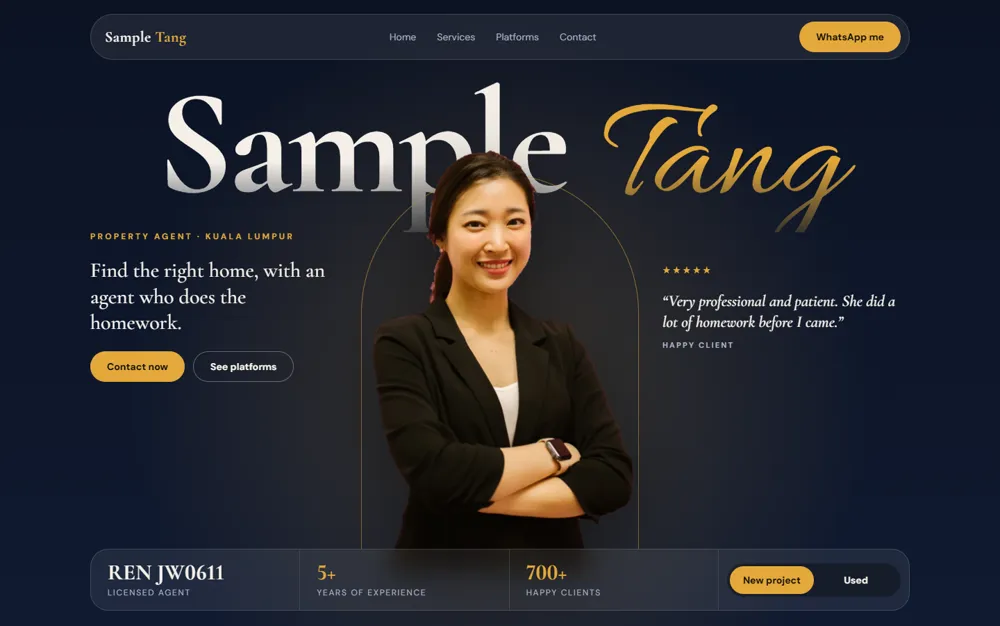
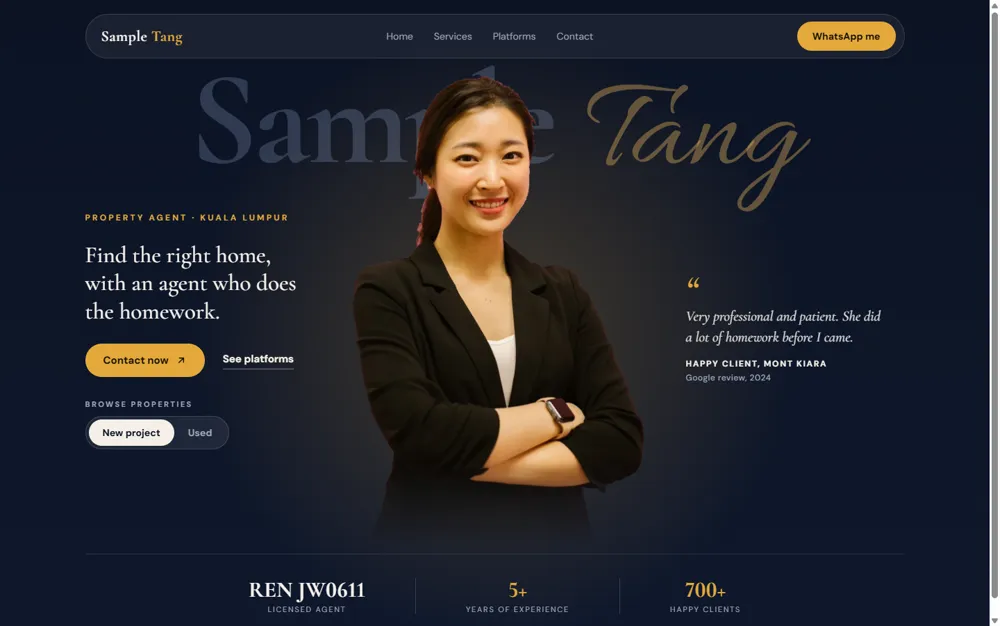
sample2: calmer portrait-led Sample Tang, gallery thumbnail refreshed

diff --git a/public/sample2/index.html b/public/sample2/index.html
@@ -8,96 +8,108 @@
 <link rel="preconnect" href="https://fonts.googleapis.com"><link rel="preconnect" href="https://fonts.gstatic.com" crossorigin>
 <link href="https://fonts.googleapis.com/css2?family=Allura&family=Cormorant+Garamond:ital,wght@0,500;0,600;0,700;1,500;1,600&family=DM+Sans:wght@400;500;700&display=swap" rel="stylesheet">
 <style>
-:root{--ink:#0c1324;--ink2:#141d33;--gold:#e3a83a;--cream:#f4efe8;--mute:#aab2c6;--serif:"Cormorant Garamond",Georgia,serif;--sans:"DM Sans",system-ui,sans-serif}
+:root{--ink:#0c1324;--gold:#e3a83a;--cream:#f4efe8;--mute:#9aa3b8;--serif:"Cormorant Garamond",Georgia,serif;--sans:"DM Sans",system-ui,sans-serif}
 *{box-sizing:border-box;margin:0;padding:0}
 html{background:var(--ink)}
 body{font-family:var(--sans);color:var(--cream);background:var(--ink);-webkit-font-smoothing:antialiased;overflow-x:hidden}
 a{color:inherit;text-decoration:none}
 .hero{position:relative;min-height:100svh;display:grid;grid-template-rows:auto 1fr auto;overflow:hidden;isolation:isolate;
-  background:radial-gradient(60vw 60vw at 50% 62%,rgba(227,168,58,.22),transparent 62%),linear-gradient(180deg,#0c1324 0%,#101a30 100%)}
+  background:radial-gradient(46vw 46vw at 50% 52%,rgba(227,168,58,.26),transparent 66%),linear-gradient(180deg,#0c1324 0%,#0f182c 100%)}
+.wrap{width:min(1180px,calc(100% - 32px));margin:0 auto}
 /* nav */
-.nav{display:flex;align-items:center;justify-content:space-between;gap:16px;width:min(1180px,calc(100% - 32px));margin:20px auto 0;padding:10px 12px 10px 20px;border-radius:999px;background:rgba(255,255,255,.07);border:1px solid rgba(255,255,255,.14);backdrop-filter:blur(14px);-webkit-backdrop-filter:blur(14px);position:relative;z-index:5}
+.nav{display:flex;align-items:center;justify-content:space-between;gap:16px;margin-top:20px;padding:10px 12px 10px 22px;border-radius:999px;background:rgba(255,255,255,.06);border:1px solid rgba(255,255,255,.12);backdrop-filter:blur(14px);-webkit-backdrop-filter:blur(14px);position:relative;z-index:5}
 .logo{font:700 22px var(--serif);letter-spacing:.02em}
 .logo i{font-style:normal;color:var(--gold)}
 .nav ul{display:flex;gap:30px;list-style:none;font-size:14px;color:var(--mute)}
 .nav ul a:hover{color:#fff}
-.btn{display:inline-flex;align-items:center;justify-content:center;gap:8px;min-height:44px;padding:0 24px;border-radius:999px;font-weight:700;font-size:14px;background:var(--gold);color:#1a1405;transition:transform .2s}
-.btn:hover{transform:translateY(-2px)}
-.btn:focus-visible{outline:3px solid #fff;outline-offset:3px}
-.btn--ghost{background:transparent;color:var(--cream);border:1px solid rgba(255,255,255,.32)}
-/* stage */
-.stage{position:relative;width:min(1180px,calc(100% - 32px));margin:0 auto -78px;display:grid;grid-template-columns:1fr minmax(300px,420px) 1fr;align-items:end}
-.title{position:absolute;left:0;right:0;top:3%;z-index:-1;text-align:center;font:700 clamp(4.5rem,15.5vw,13.5rem)/.9 var(--serif);letter-spacing:-.03em;color:var(--cream);white-space:nowrap;
-  -webkit-mask-image:linear-gradient(180deg,#000 55%,rgba(0,0,0,.18) 100%);mask-image:linear-gradient(180deg,#000 55%,rgba(0,0,0,.18) 100%)}
-.title em{font:400 1.0em/.9 "Allura",cursive;color:var(--gold);letter-spacing:0;margin-left:.04em}
-.arch{position:absolute;left:50%;bottom:40px;width:min(400px,34vw);height:calc(88% - 110px);transform:translateX(-50%);border:1.5px solid rgba(227,168,58,.55);border-bottom:0;border-radius:999px 999px 0 0;z-index:-1}
-.portrait{grid-column:2;position:relative;align-self:end;justify-self:center;height:min(78svh,760px);width:auto;max-width:100%;object-fit:contain;display:block;filter:drop-shadow(0 30px 50px rgba(0,0,0,.45))}
-.side{align-self:center;padding-bottom:8vh;display:flex;flex-direction:column;gap:22px}
-.side--l{grid-column:1;padding-right:24px;align-items:flex-start}
-.side--r{grid-column:3;padding-left:24px;align-items:flex-start}
+.btn{display:inline-flex;align-items:center;justify-content:center;gap:10px;min-height:48px;padding:0 26px;border-radius:999px;font-weight:700;font-size:15px;background:var(--gold);color:#1a1405;transition:transform .2s,box-shadow .2s}
+.btn:hover{transform:translateY(-2px);box-shadow:0 10px 26px rgba(227,168,58,.32)}
+.btn:focus-visible,.link:focus-visible{outline:3px solid #fff;outline-offset:4px}
+.btn svg{width:16px;height:16px;fill:none;stroke:currentColor;stroke-width:2.2;stroke-linecap:round;stroke-linejoin:round}
+.nav .btn{min-height:42px;padding:0 22px;font-size:14px}
+/* stage: portrait is the focal point */
+.stage{position:relative;display:grid;grid-template-columns:1fr minmax(320px,470px) 1fr;align-items:end;padding-top:2vh}
+.title{position:absolute;left:0;right:0;top:calc(4% - 26px);z-index:-1;text-align:center;font:700 clamp(4.5rem,14vw,12rem)/.9 var(--serif);letter-spacing:-.03em;color:rgba(150,170,212,.25);white-space:nowrap;user-select:none}
+.title em{font:400 1em/.9 "Allura",cursive;color:rgba(240,184,92,.38);letter-spacing:0;margin-left:.04em}
+.portrait{grid-column:2;justify-self:center;align-self:end;height:min(76svh,740px);width:auto;max-width:100%;object-fit:contain;display:block;
+  -webkit-mask-image:linear-gradient(180deg,#000 82%,transparent 100%);mask-image:linear-gradient(180deg,#000 82%,transparent 100%)}
+.side{align-self:center;padding-top:7vh;display:flex;flex-direction:column;gap:26px}
+.side--l{grid-column:1;padding-right:30px;align-items:flex-start}
+.side--r{grid-column:3;padding-left:40px;align-items:flex-start;gap:14px}
 .eyebrow{font:600 12px var(--sans);letter-spacing:.26em;text-transform:uppercase;color:var(--gold)}
-.lead{font:500 clamp(22px,2.1vw,30px)/1.25 var(--serif);max-width:12em}
-.cta{display:flex;gap:12px;flex-wrap:wrap}
-.quote{font:italic 600 clamp(18px,1.6vw,23px)/1.3 var(--serif);max-width:15em;color:var(--cream)}
-.who{display:block;margin-top:10px;font:700 11px var(--sans);letter-spacing:.2em;text-transform:uppercase;color:var(--mute)}
-.stars{color:var(--gold);letter-spacing:.2em;font-size:14px}
-/* bottom bar */
-.bar{width:min(1180px,calc(100% - 32px));margin:0 auto 22px;display:grid;grid-template-columns:repeat(3,1fr) auto;gap:0;align-items:center;border-radius:26px;background:rgba(255,255,255,.07);border:1px solid rgba(255,255,255,.14);backdrop-filter:blur(14px);-webkit-backdrop-filter:blur(14px);position:relative;z-index:3}
-.stat{padding:16px 24px;border-right:1px solid rgba(255,255,255,.12)}
-.stat b{display:block;font:700 clamp(24px,2.4vw,32px)/1.05 var(--serif);color:var(--gold);font-variant-numeric:lining-nums}
-.stat span{font-size:12px;letter-spacing:.14em;text-transform:uppercase;color:var(--mute)}
-.stat--lic b{color:var(--cream)}
-.switch{position:relative;display:grid;grid-template-columns:1fr 1fr;margin:10px 12px;border-radius:999px;background:rgba(0,0,0,.32);padding:4px;min-width:250px;font-weight:700;font-size:14px}
-.switch a{position:relative;z-index:1;text-align:center;padding:11px 0;border-radius:999px}
-.switch a:first-child{background:var(--gold);color:#1a1405}
+.lead{font:500 clamp(24px,2.3vw,34px)/1.22 var(--serif);max-width:11em}
+.cta{display:flex;align-items:center;gap:26px;flex-wrap:wrap}
+.link{font-weight:700;font-size:15px;color:var(--cream);padding-bottom:4px;border-bottom:1px solid rgba(244,239,232,.4);transition:border-color .2s,color .2s}
+.link:hover{color:var(--gold);border-color:var(--gold)}
+.pick{display:flex;flex-direction:column;gap:10px;align-items:flex-start;margin-top:6px}
+.pick small{font:700 11px var(--sans);letter-spacing:.22em;text-transform:uppercase;color:var(--mute)}
+.seg{display:inline-flex;padding:4px;border-radius:999px;background:rgba(255,255,255,.07);border:1px solid rgba(255,255,255,.14)}
+.seg a{padding:10px 20px;border-radius:999px;font-weight:700;font-size:14px;color:var(--mute);transition:color .2s,background .2s}
+.seg a:hover{color:#fff}
+.seg a[aria-current="true"]{background:var(--cream);color:#0c1324}
+.quote{font:italic 500 clamp(17px,1.45vw,21px)/1.4 var(--serif);max-width:14em;color:rgba(244,239,232,.88)}
+.who{display:block;margin-top:16px;font:700 12px var(--sans);letter-spacing:.14em;text-transform:uppercase;color:var(--cream)}
+.who small{display:block;margin-top:4px;font:500 12px var(--sans);letter-spacing:.04em;text-transform:none;color:var(--mute)}
+.mark{font:italic 600 54px/0.6 var(--serif);color:var(--gold);height:26px}
+/* stats: light row, no panel */
+.facts{display:flex;justify-content:center;padding:34px 0 40px;border-top:1px solid rgba(255,255,255,.1);margin-top:10px}
+.fact{text-align:center;padding:0 clamp(24px,5.5vw,72px)}
+.fact+.fact{border-left:1px solid rgba(255,255,255,.16)}
+.fact b{display:block;font:700 clamp(24px,2.3vw,32px)/1.05 var(--serif);color:var(--gold);font-variant-numeric:lining-nums}
+.fact span{display:block;margin-top:4px;font-size:11px;letter-spacing:.16em;text-transform:uppercase;color:var(--mute)}
+.fact--lic b{color:var(--cream)}
 @media(max-width:860px){
   .nav ul{display:none}
   .hero{min-height:auto}
-  .stage{grid-template-columns:1fr;padding-top:24px}
-  .title{position:relative;top:auto;margin-top:8px;font-size:clamp(3.6rem,19vw,7rem);z-index:0;mask-image:none;-webkit-mask-image:none}
-  .portrait{grid-column:1;height:min(52svh,420px);margin-top:18px}
-  .stage{margin-bottom:0}
-  .arch{display:none}
-  .side--l,.side--r{grid-column:1;padding:18px 4px 0;align-items:center;text-align:center}
+  .stage{grid-template-columns:1fr;padding-top:20px}
+  .title{position:relative;top:auto;font-size:clamp(3.6rem,19vw,7rem);z-index:0;color:rgba(150,170,212,.28)}
+  .portrait{grid-column:1;height:min(54svh,430px);margin-top:6px}
+  .side--l,.side--r{grid-column:1;padding:22px 4px 0;align-items:center;text-align:center}
   .side{padding-bottom:0}
   .cta{justify-content:center}
-  .bar{grid-template-columns:1fr 1fr 1fr;margin-top:26px}
-  .stat{padding:14px 10px;text-align:center}
-  .switch{grid-column:1/-1;margin:0 12px 12px}
-  .stat span{font-size:10px;letter-spacing:.08em}
+  .pick{align-items:center}
+  .mark{display:none}
+  .facts{padding:26px 0 30px;margin-top:22px}
+  .fact{padding:0 12px}
+  .fact span{font-size:10px;letter-spacing:.1em}
 }
 @media(prefers-reduced-motion:no-preference){.title,.portrait{animation:rise .8s ease both}.portrait{animation-delay:.1s}@keyframes rise{from{opacity:0;transform:translateY(18px)}}}
 </style>
 </head>
 <body>
 <header class="hero">
-  <nav class="nav" aria-label="Main">
-    <a class="logo" href="#">Sample <i>Tang</i></a>
-    <ul><li><a href="#">Home</a></li><li><a href="#">Services</a></li><li><a href="#">Platforms</a></li><li><a href="#">Contact</a></li></ul>
-    <a class="btn" href="#">WhatsApp me</a>
-  </nav>
+  <div class="wrap">
+    <nav class="nav" aria-label="Main">
+      <a class="logo" href="#">Sample <i>Tang</i></a>
+      <ul><li><a href="#">Home</a></li><li><a href="#">Services</a></li><li><a href="#">Platforms</a></li><li><a href="#">Contact</a></li></ul>
+      <a class="btn" href="#">WhatsApp me</a>
+    </nav>
+  </div>
 
-  <div class="stage">
+  <div class="wrap stage">
     <h1 class="title">Sample <em>Tang</em></h1>
-    <div class="arch" aria-hidden="true"></div>
     <div class="side side--l">
       <span class="eyebrow">Property agent · Kuala Lumpur</span>
       <p class="lead">Find the right home, with an agent who does the homework.</p>
-      <div class="cta"><a class="btn" href="#">Contact now</a><a class="btn btn--ghost" href="#">See platforms</a></div>
+      <div class="cta">
+        <a class="btn" href="#">Contact now <svg viewBox="0 0 24 24" aria-hidden="true"><path d="M7 17 17 7M8 7h9v9"/></svg></a>
+        <a class="link" href="#">See platforms</a>
+      </div>
+      <div class="pick"><small id="pk">Browse properties</small><div class="seg" role="group" aria-labelledby="pk"><a href="#new" aria-current="true">New project</a><a href="#used">Used</a></div></div>
     </div>
-    <img class="portrait" src="assets/sample-tang.webp" alt="Sample Tang, property agent, smiling with arms crossed" width="860" height="1253">
+    <img class="portrait" src="assets/sample-tang.webp" alt="Sample Tang, property agent, smiling with arms crossed" width="860" height="1253" fetchpriority="high">
     <div class="side side--r">
-      <span class="stars" aria-label="Five stars">★★★★★</span>
-      <p class="quote">&ldquo;Very professional and patient. She did a lot of homework before I came.&rdquo;<span class="who">Happy client</span></p>
+      <span class="mark" aria-hidden="true">&ldquo;</span>
+      <!-- SAMPLE review: replace with a real client name, area and a link to the verified Google/PropertyGuru review -->
+      <p class="quote">Very professional and patient. She did a lot of homework before I came.<span class="who">Happy client, Mont Kiara<small>Google review, 2024</small></span></p>
     </div>
   </div>
 
   <!-- SAMPLE values: replace with the agent's real REN licence number, years and client count -->
-  <div class="bar">
-    <div class="stat stat--lic"><b>REN JW0611</b><span>Licensed agent</span></div>
-    <div class="stat"><b>5+</b><span>Years of experience</span></div>
-    <div class="stat"><b>700+</b><span>Happy clients</span></div>
-    <div class="switch" role="tablist"><a href="#">New project</a><a href="#">Used</a></div>
+  <div class="wrap facts">
+    <div class="fact fact--lic"><b>REN JW0611</b><span>Licensed agent</span></div>
+    <div class="fact"><b>5+</b><span>Years of experience</span></div>
+    <div class="fact"><b>700+</b><span>Happy clients</span></div>
   </div>
 </header>
 </body>
